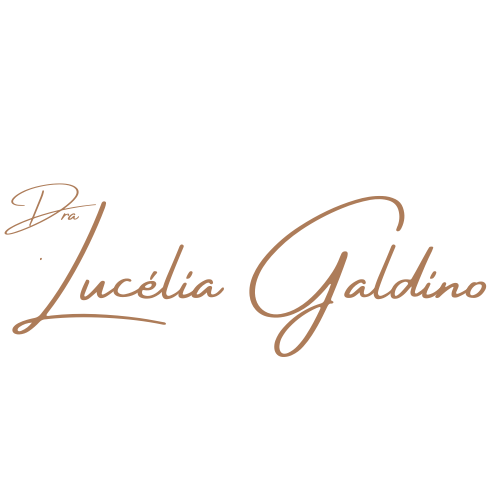
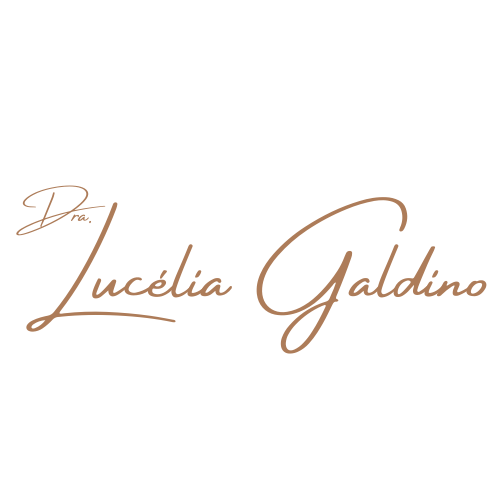
feat: add new brand image

Changed region(s): [[0.0, 0.36, 0.96, 0.72]]

diff --git a/src/pages/home/index.tsx b/src/pages/home/index.tsx
@@ -16,7 +16,7 @@ export default function Home() {
         <img
           src="/description.png"
           alt="brand"
-          className="w-40 h-40 absolute top-64"
+          className="w-48 h-48 absolute top-60"
         />
         <div className="flex items-center gap-5 absolute top-[380px] z-[99]">
           <a
